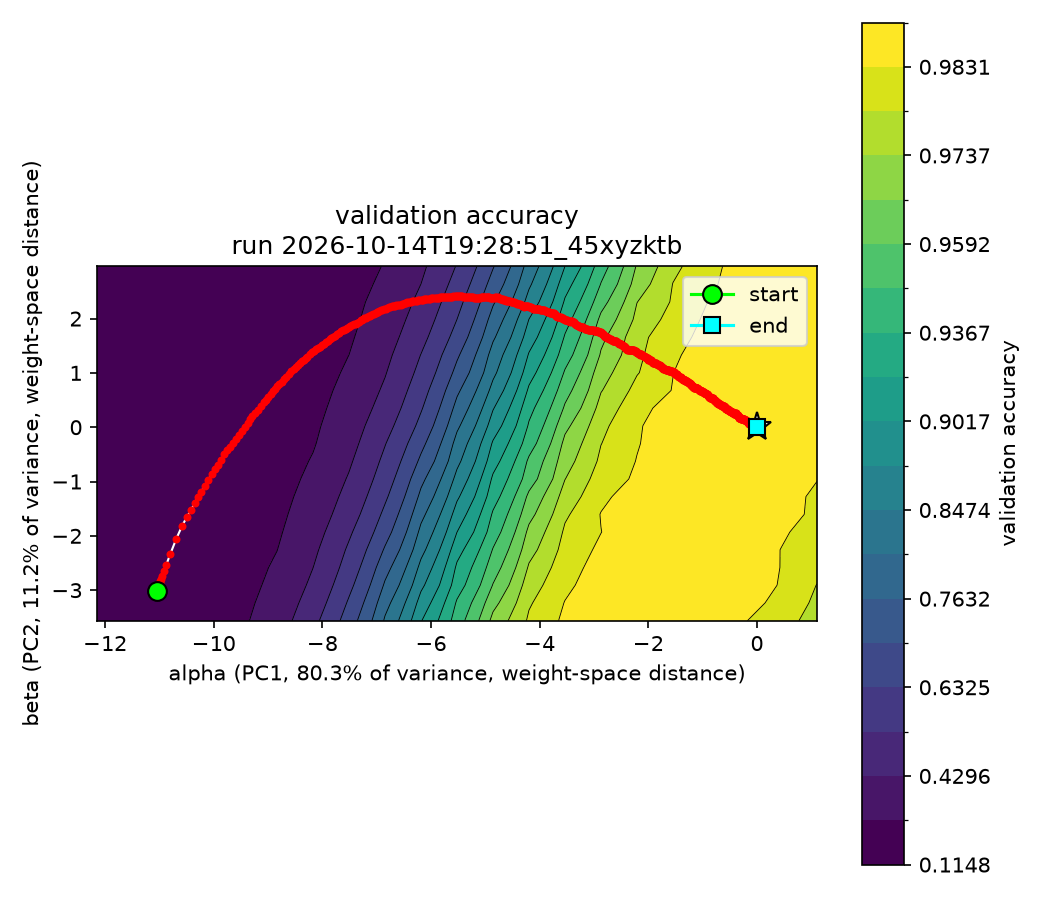
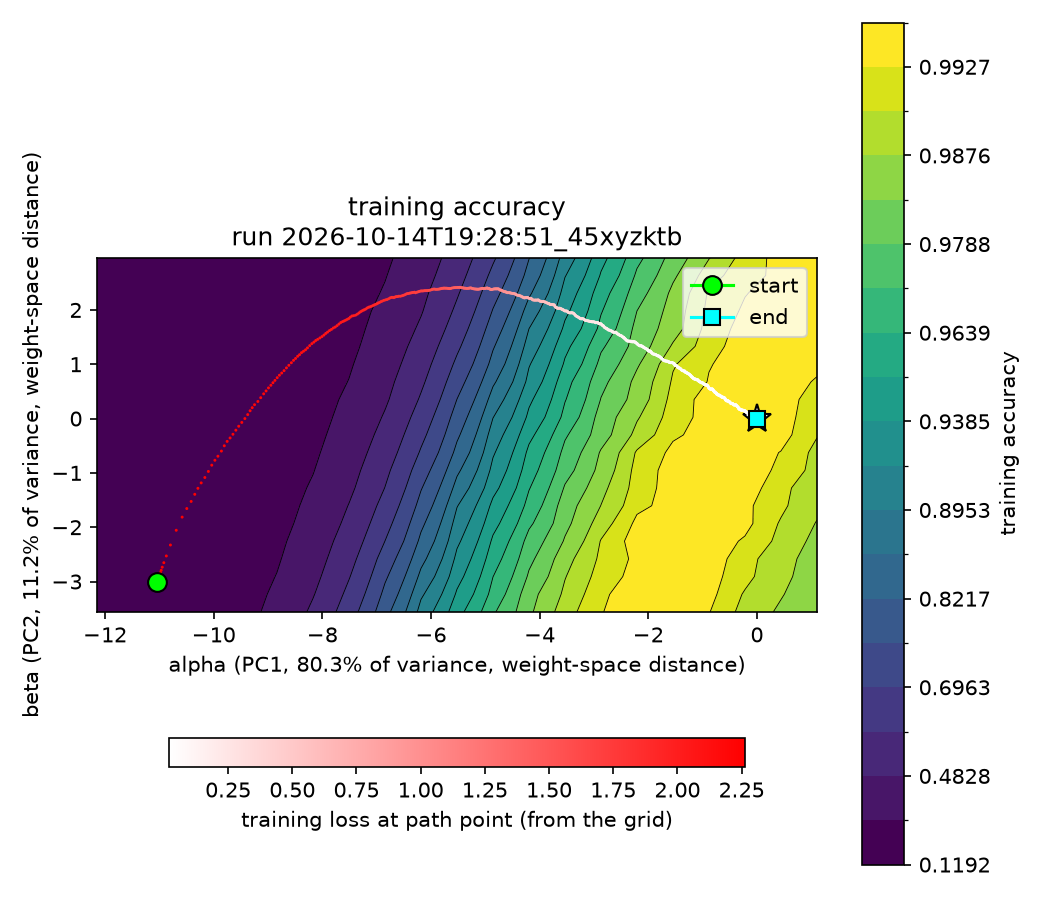
plot with loss values

diff --git a/src/mnist/loss_landscape/plot.py b/src/mnist/loss_landscape/plot.py
@@ -6,7 +6,7 @@ from pathlib import Path
 
 import matplotlib.pyplot as plt
 import numpy as np
-from matplotlib.colors import BoundaryNorm
+from matplotlib.colors import BoundaryNorm, LinearSegmentedColormap
 
 
 def split_label(split: str) -> str:
@@ -42,7 +42,24 @@ def plot_1d(alphas: np.ndarray, losses: np.ndarray, accs: np.ndarray, out_path: 
     plt.close(fig)
 
 
-def plot_2d_contour(alphas: np.ndarray, betas: np.ndarray, values: np.ndarray, out_path: Path, title: str, log_levels: bool = True, n_levels: int = 20, trajectory: np.ndarray | None = None, log_error_levels: bool = False, run_id: str | None = None, explained_variance: np.ndarray | None = None) -> None:
+def sample_grid(alphas: np.ndarray, betas: np.ndarray, grid: np.ndarray, points: np.ndarray) -> np.ndarray:
+    """
+    Bilinearly interpolate a [len(betas), len(alphas)] grid at [n, 2] points of (alpha, beta). Returns [n].
+    Points outside the grid are clamped to its edge cells.
+    """
+    i = np.clip(np.searchsorted(alphas, points[:, 0]) - 1, 0, len(alphas) - 2)
+    j = np.clip(np.searchsorted(betas, points[:, 1]) - 1, 0, len(betas) - 2)
+    ta = (points[:, 0] - alphas[i]) / (alphas[i + 1] - alphas[i])
+    tb = (points[:, 1] - betas[j]) / (betas[j + 1] - betas[j])
+    return (
+        grid[j, i] * (1 - ta) * (1 - tb)
+        + grid[j, i + 1] * ta * (1 - tb)
+        + grid[j + 1, i] * (1 - ta) * tb
+        + grid[j + 1, i + 1] * ta * tb
+    )
+
+
+def plot_2d_contour(alphas: np.ndarray, betas: np.ndarray, values: np.ndarray, out_path: Path, title: str, log_levels: bool = True, n_levels: int = 20, trajectory: np.ndarray | None = None, log_error_levels: bool = False, run_id: str | None = None, explained_variance: np.ndarray | None = None, trajectory_loss: np.ndarray | None = None, trajectory_loss_label: str = "loss") -> None:
     """
     Filled contour plot of a [len(betas), len(alphas)] grid, with the trained weights (alpha = beta = 0) marked.
     log_levels spaces the contour levels geometrically, which suits a loss that grows over orders of magnitude.
@@ -81,8 +98,14 @@ def plot_2d_contour(alphas: np.ndarray, betas: np.ndarray, values: np.ndarray, o
             y_label = f"beta (PC2, {float(explained_variance[1]):.1%} of variance, weight-space distance)"
         ax.set_xlabel(x_label)
         ax.set_ylabel(y_label)
-        ax.plot(trajectory[:, 0], trajectory[:, 1], color="white", linewidth=1, zorder=3)
-        ax.scatter(trajectory[:, 0], trajectory[:, 1], color="red", s=8, zorder=4)
+        if trajectory_loss is None:
+            ax.scatter(trajectory[:, 0], trajectory[:, 1], color="red", s=2, zorder=4)
+        else:
+            # Fade linearly with loss: full red at the largest loss on the path, full white at the smallest
+            white_to_red = LinearSegmentedColormap.from_list("white_to_red", ["white", "red"])
+            path_points = ax.scatter(trajectory[:, 0], trajectory[:, 1], c=trajectory_loss, cmap=white_to_red, s=2, linewidths=0, zorder=4)
+            # Horizontal, under the plot, so it doesn't squeeze the axes next to the other colorbar
+            fig.colorbar(path_points, ax=ax, label=trajectory_loss_label, orientation="horizontal", location="bottom", pad=0.15, shrink=0.8)
         ax.plot(trajectory[0, 0], trajectory[0, 1], marker="o", color="lime", markeredgecolor="k", markersize=9, zorder=5, label="start")
         ax.plot(trajectory[-1, 0], trajectory[-1, 1], marker="s", color="cyan", markeredgecolor="k", markersize=8, zorder=5, label="end")
         ax.legend(loc="upper right")
@@ -146,11 +169,13 @@ def main() -> None:
             run_id = str(data["run_id"]) if "run_id" in data.files else None
             # Older files don't record the split; they were all measured on validation
             split = str(data["split"]) if "split" in data.files else "validation"
+        # The loss at each path point, read off the saved loss grid at that point's position. Not recomputed per snapshot.
+        trajectory_loss = sample_grid(alphas, betas, losses, trajectory) if trajectory is not None else None
         for name, values, log_levels, log_error_levels in (("loss", losses, True, False), ("acc", accs, False, True)):
             out_path = args.npz.with_name(f"{args.npz.stem}_{name}_{args.style}.png")
             title = f"{split_label(split)} {'loss' if name == 'loss' else 'accuracy'}"
             if args.style == "contour":
-                plot_2d_contour(alphas, betas, values, out_path, title, log_levels=log_levels, trajectory=trajectory, log_error_levels=log_error_levels, run_id=run_id, explained_variance=explained_variance)
+                plot_2d_contour(alphas, betas, values, out_path, title, log_levels=log_levels, trajectory=trajectory, log_error_levels=log_error_levels, run_id=run_id, explained_variance=explained_variance, trajectory_loss=trajectory_loss, trajectory_loss_label=f"{split_label(split)} loss at path point (from the grid)")
             else:
                 plot_2d_surface(alphas, betas, values, out_path, title, run_id=run_id)
             print(f"Saved 2D {args.style} plot to", out_path)

diff --git a/README.md b/README.md
@@ -117,11 +117,18 @@ The algorithm is:
   - Take the PCA and use the top 2 basis vectors.
   - Use this basis $\overset{\rightharpoonup}{\alpha}$, $\overset{\rightharpoonup}{\beta}$ to define the plane, instead of the random ones from the earlier method that just plotted the network weights.
 - Center the trajectory on the weights so that it ends at (0,0).
-- Use the final training snapshot as $\theta^\star$ for the contour plot.
+- Use the final training snapshot as $\theta^\star$ for the contour plot. We need to do this because we are using training snapshots for the trajectory points, so another plane would be incorrect, at least relative to the final point.
 
 ![](img/2026-10-14T19:28:51_45xyzktb_2d_acc_contour.png)
 
-Working on a few things:
-- This does not capture that early training dropoff I was hoping for
-- The training path cuts across the gradient, probably because of movement in some other dimension
-- The final network is sheared oddly instead of the round plots from earlier, and the distance is correct (i.e. it's not an aspect ratio problem).
+A few observations:
+- This does not quite capture that early training dropoff I was hoping for
+- The training path cuts across the gradient, probably because of earlier movement in some other dimension.
+  - I think it's because we spend ~10 points covering that ground and the remaining ~8000 elsewhere.
+- The final network projection is a valley in these particular dimensions instead of the round plots from earlier
+  - It's not a zoom issue (as in looking very closely at a side of the bowl only; you can see the other side of the valley at the lower right)
+  - It's not an aspect ratio issue (one unit on $x$ is the same size as one unit on $y$ for instance)
+  - I think it's because most of the points are on that pink-white arc from $(-6,2)$ -ish to the final destination $(0,0)$, so averaged across all ~8000 points, the path *is* mostly a walk down this valley.
+
+
+
